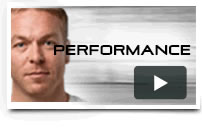
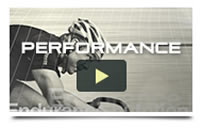
added thumbs with nice rollovers

diff --git a/js/main.js b/js/main.js
@@ -87,6 +87,18 @@ jQuery(document).ready(function(){
 					getOtherTopic('Recovery');
 			}
 		});
+		
+		var buttonName = '';
+		jQuery('.swap').hover(function(){
+			buttonName = jQuery(this).attr('src');
+			
+			newName =  buttonName.replace('.jpg','-over.jpg');
+			
+			jQuery(this).attr('src', newName);
+			
+			},function(){
+				jQuery(this).attr('src', buttonName);
+		});
 	/******************************************************************************************
 	*
 	* for the gender and optin checkboxes toggling

diff --git a/css/main.css b/css/main.css
@@ -242,6 +242,7 @@ textarea {
 	/*width:100px;*/
 }
 .signature{
+	clear:both;
 	padding: 50px 20px 70px 20px;
 }
 .footer-logo{

diff --git a/index.php b/index.php
@@ -109,9 +109,9 @@ the rest of the HTML is processed and the page load is complete, remove the line
                     <div class="signature" style="text-align:center"><img src="img/page/sir-chris-hoy.gif" height="99" width="122" alt="Sir Chris Hoy, MBE"></div>
                     <div class="sub-footer-text" style="text-align:center">Find out more about nutrition and invite your friends to Ask Hoy</div>
                   	<div class="thumb-crumb" style="text-align:center">
-                        <img onclick="getOtherTopic('Preparation');" class="bread-crumb-thumb button" id="preparation-thumb" src="img/page/preparation.jpg" alt="preparation" width="168" height="110" />
-                        <img onclick="getOtherTopic('Performance');" class="bread-crumb-thumb button" id="performance-thumb" src="img/page/performance.jpg" alt="performance" width="168" height="110" />
-                        <img onclick="getOtherTopic('Recovery');" class="bread-crumb-thumb button" id="recovery-thumb" src="img/page/recovery.jpg" alt="recovery" width="168" height="110" />
+                        <img onclick="getOtherTopic('Preparation');" class="bread-crumb-thumb swap button" id="preparation-thumb" src="img/page/preparation.jpg" alt="preparation" width="168" height="110" />
+                        <img onclick="getOtherTopic('Performance');" class="bread-crumb-thumb swap button" id="performance-thumb" src="img/page/performance.jpg" alt="performance" width="168" height="110" />
+                        <img onclick="getOtherTopic('Recovery');" class="bread-crumb-thumb swap button" id="recovery-thumb" src="img/page/recovery.jpg" alt="recovery" width="168" height="110" />
                         <img class="bread-crumb-thumb" src="img/page/share-lower.png" alt="Share" width="168" height="110" usemap="#Map" />
                           <map name="Map">
                             <area shape="rect" coords="77,19,99,42" href="#" alt="twitter" id="tw-footer" class="twitter-share" >
